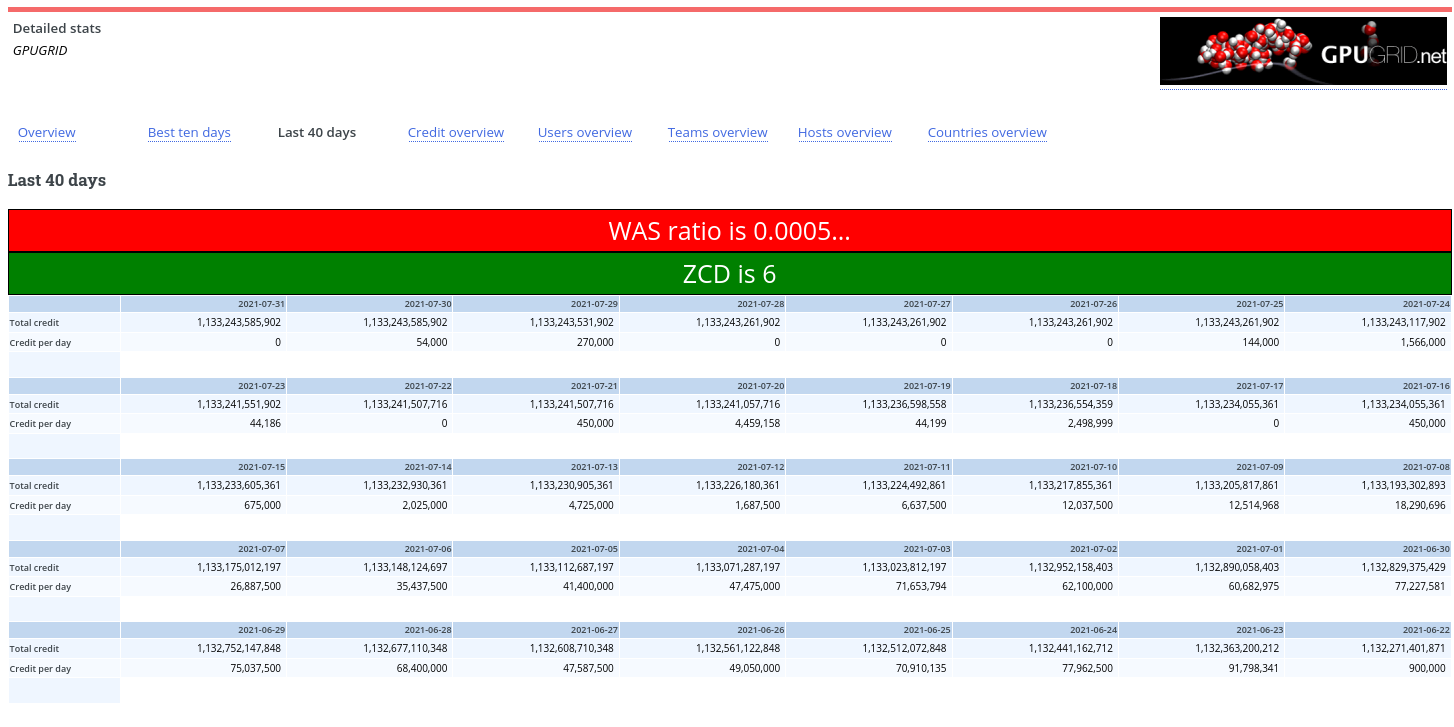
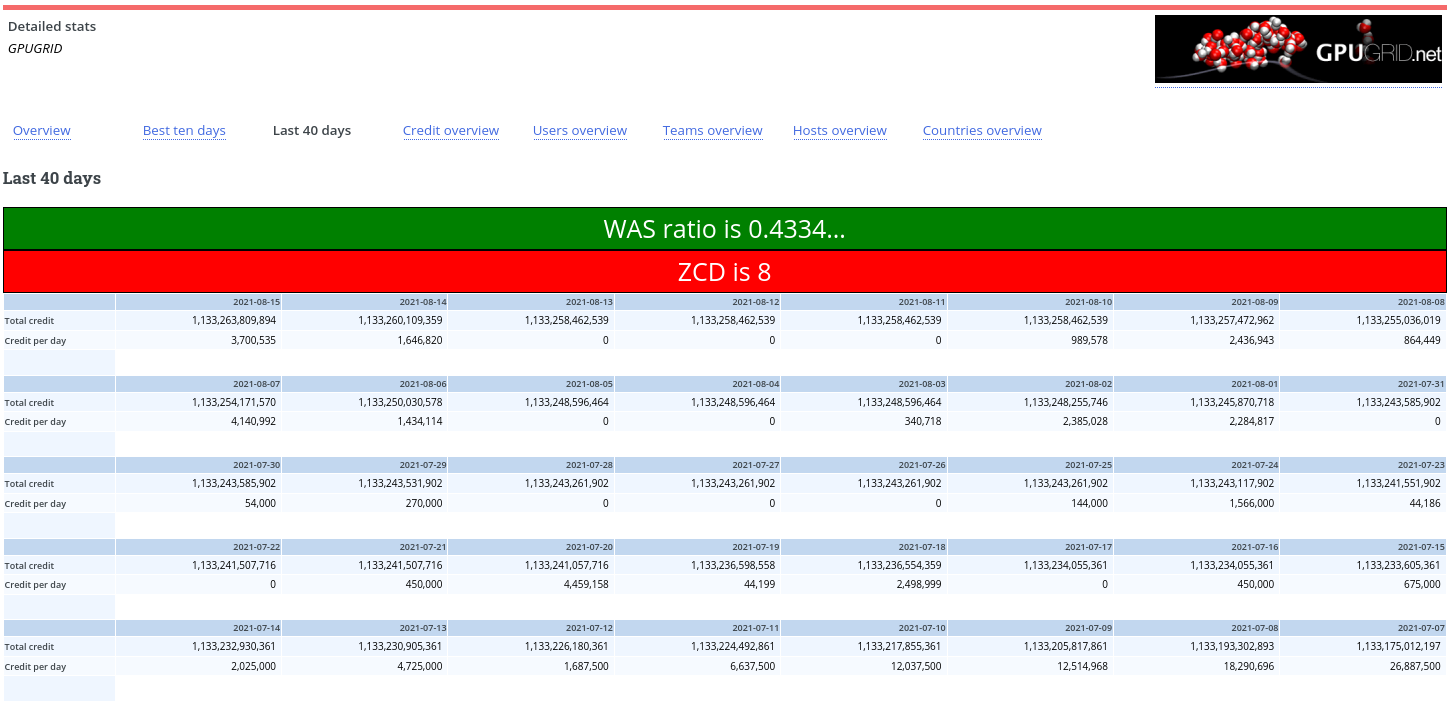
Update Screenshots to Show Accurate Numbers

diff --git a/README.md b/README.md
@@ -20,7 +20,7 @@ Go to the [bookmark_version.js file](bookmark_version.js) and copy it ([may be e
 # Screenshots
 
 ## Example Passing Both Checks
-![Screenshot showing two green banners above a table of the 40 day stats](screenshots/asteroids-at-home-example.png)
+![Screenshot showing two green banners above a table of the 40 day stats](screenshots/einstein-at-home-example.png)
 
 ## Example Failing One Check
-![Screenshot showing one red banner and one gree banner above the table of the 40 day stats](screenshots/gpugrid-example.png)
+![Screenshot showing one green banner and one red banner above the table of the 40 day stats](screenshots/gpugrid-example.png)
